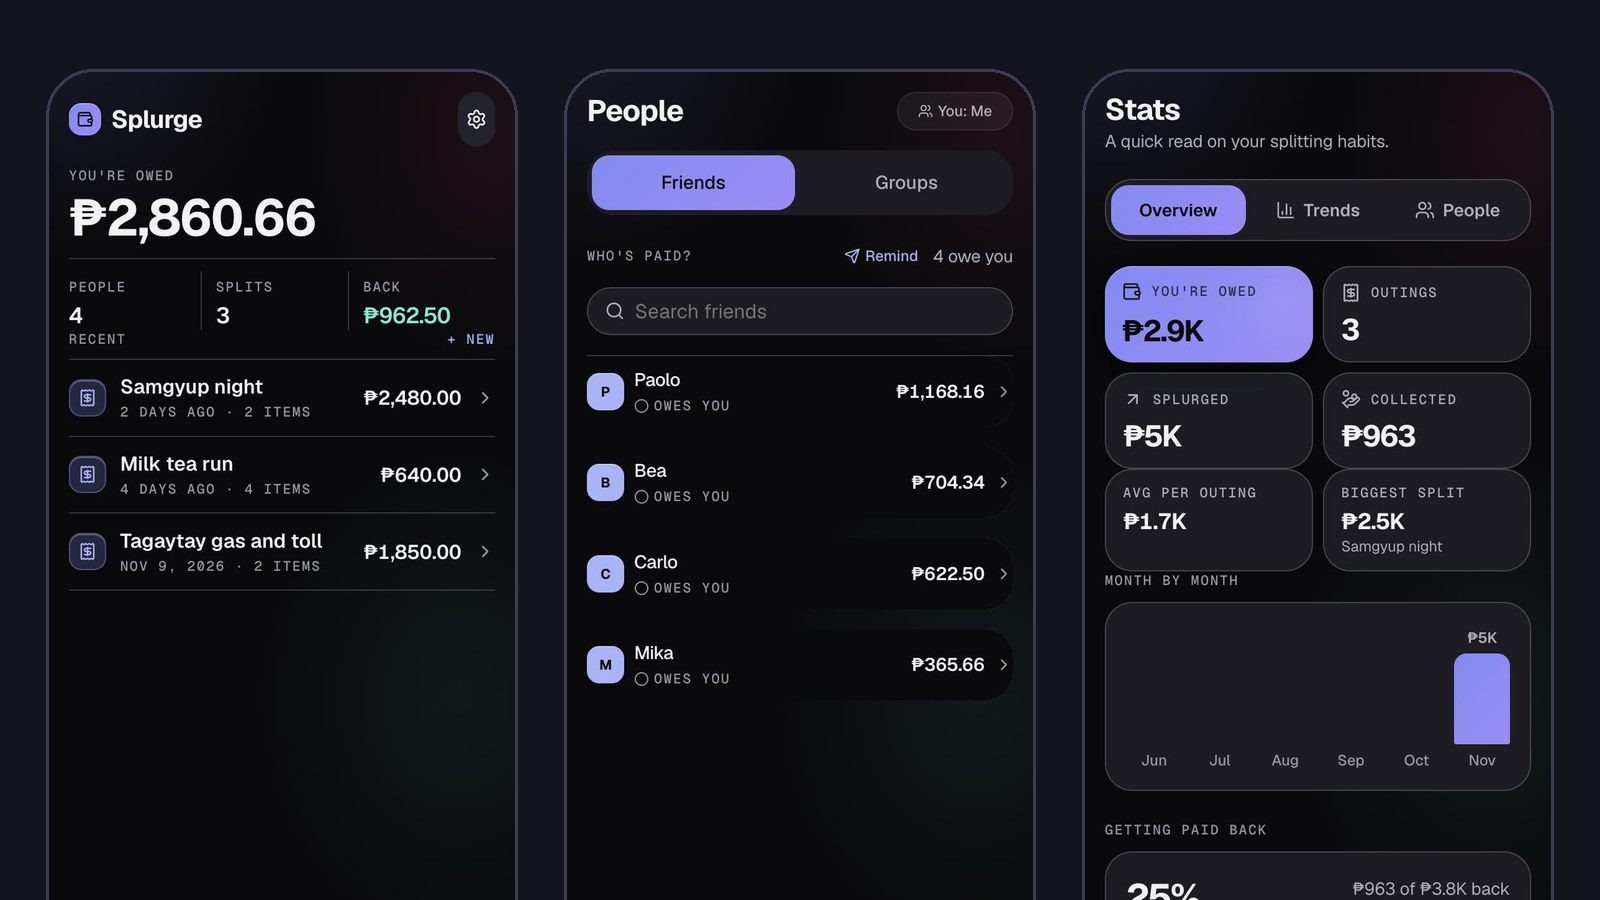
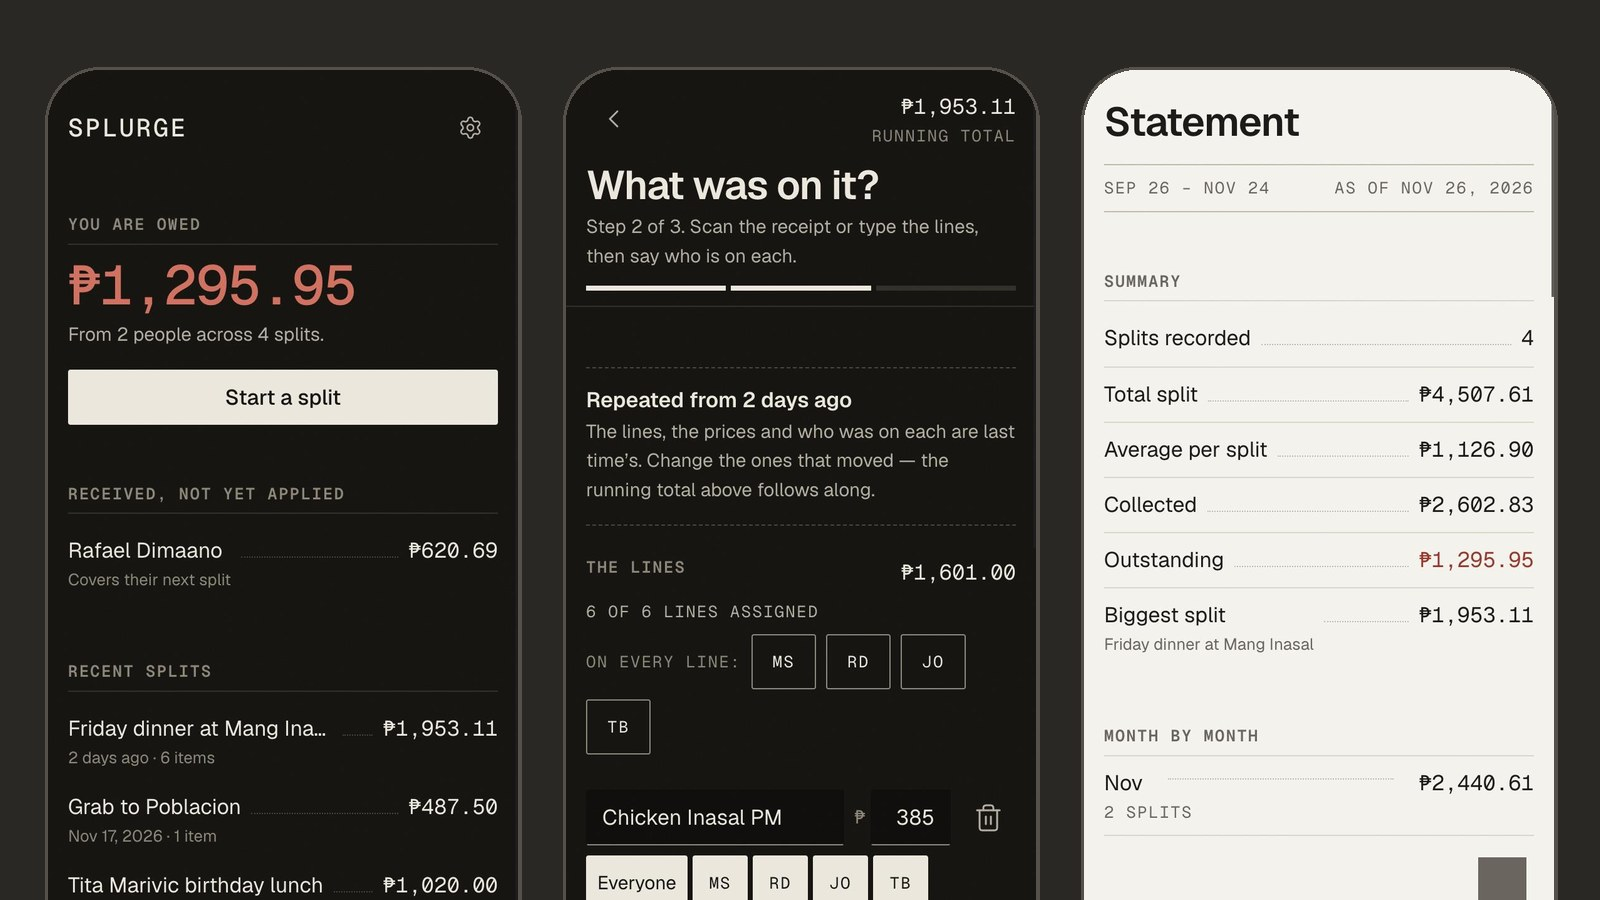
feat: Splurge card shows the receipt-paper rebuild and describes line-by-line splitting, exact centavo shares and the measured scanner

diff --git a/src/data/projects.ts b/src/data/projects.ts
@@ -234,7 +234,7 @@ export const projects: Project[] = [
     "title": "Splurge",
     "year": "2026",
     "category": "Web",
-    "description": "Mobile-first bill-splitting PWA for tracking outings with friends. Scans receipts with OCR, splits costs proportionally, and logs payments over time.",
+    "description": "Bill-splitting web app for group dinners where one person pays and everyone settles up later. Scan the receipt, assign each line to whoever had it, and send reminders through the phone's share sheet. Shares are worked out in whole centavos, so the parts always add up to the total. Everything stays on your device, with no account. I tested the receipt scanner on real receipt photos and raised the line items it recovers from 12.5% to about 57%.",
     "github": "https://github.com/Koala3353/splurge",
     "preview": "https://koala3353.github.io/splurge/"
   },

diff --git a/src/data/home.ts b/src/data/home.ts
@@ -42,7 +42,7 @@ export const caseStudies: { slug: string; impact?: string; impactLabel?: string 
   { slug: "he-venue-explorer", impact: "152", impactLabel: "venue calendars in one search" },
   { slug: "setstamp", impact: "1,383", impactLabel: "exercises, searchable with no signal" },
   { slug: "budge" },
-  { slug: "splurge" },
+  { slug: "splurge", impact: "57%", impactLabel: "of receipt lines read by the scanner, up from 12.5%" },
   { slug: "tuft", impact: "6", impactLabel: "kinds of weather, from snow to fireflies" },
 ];
 
